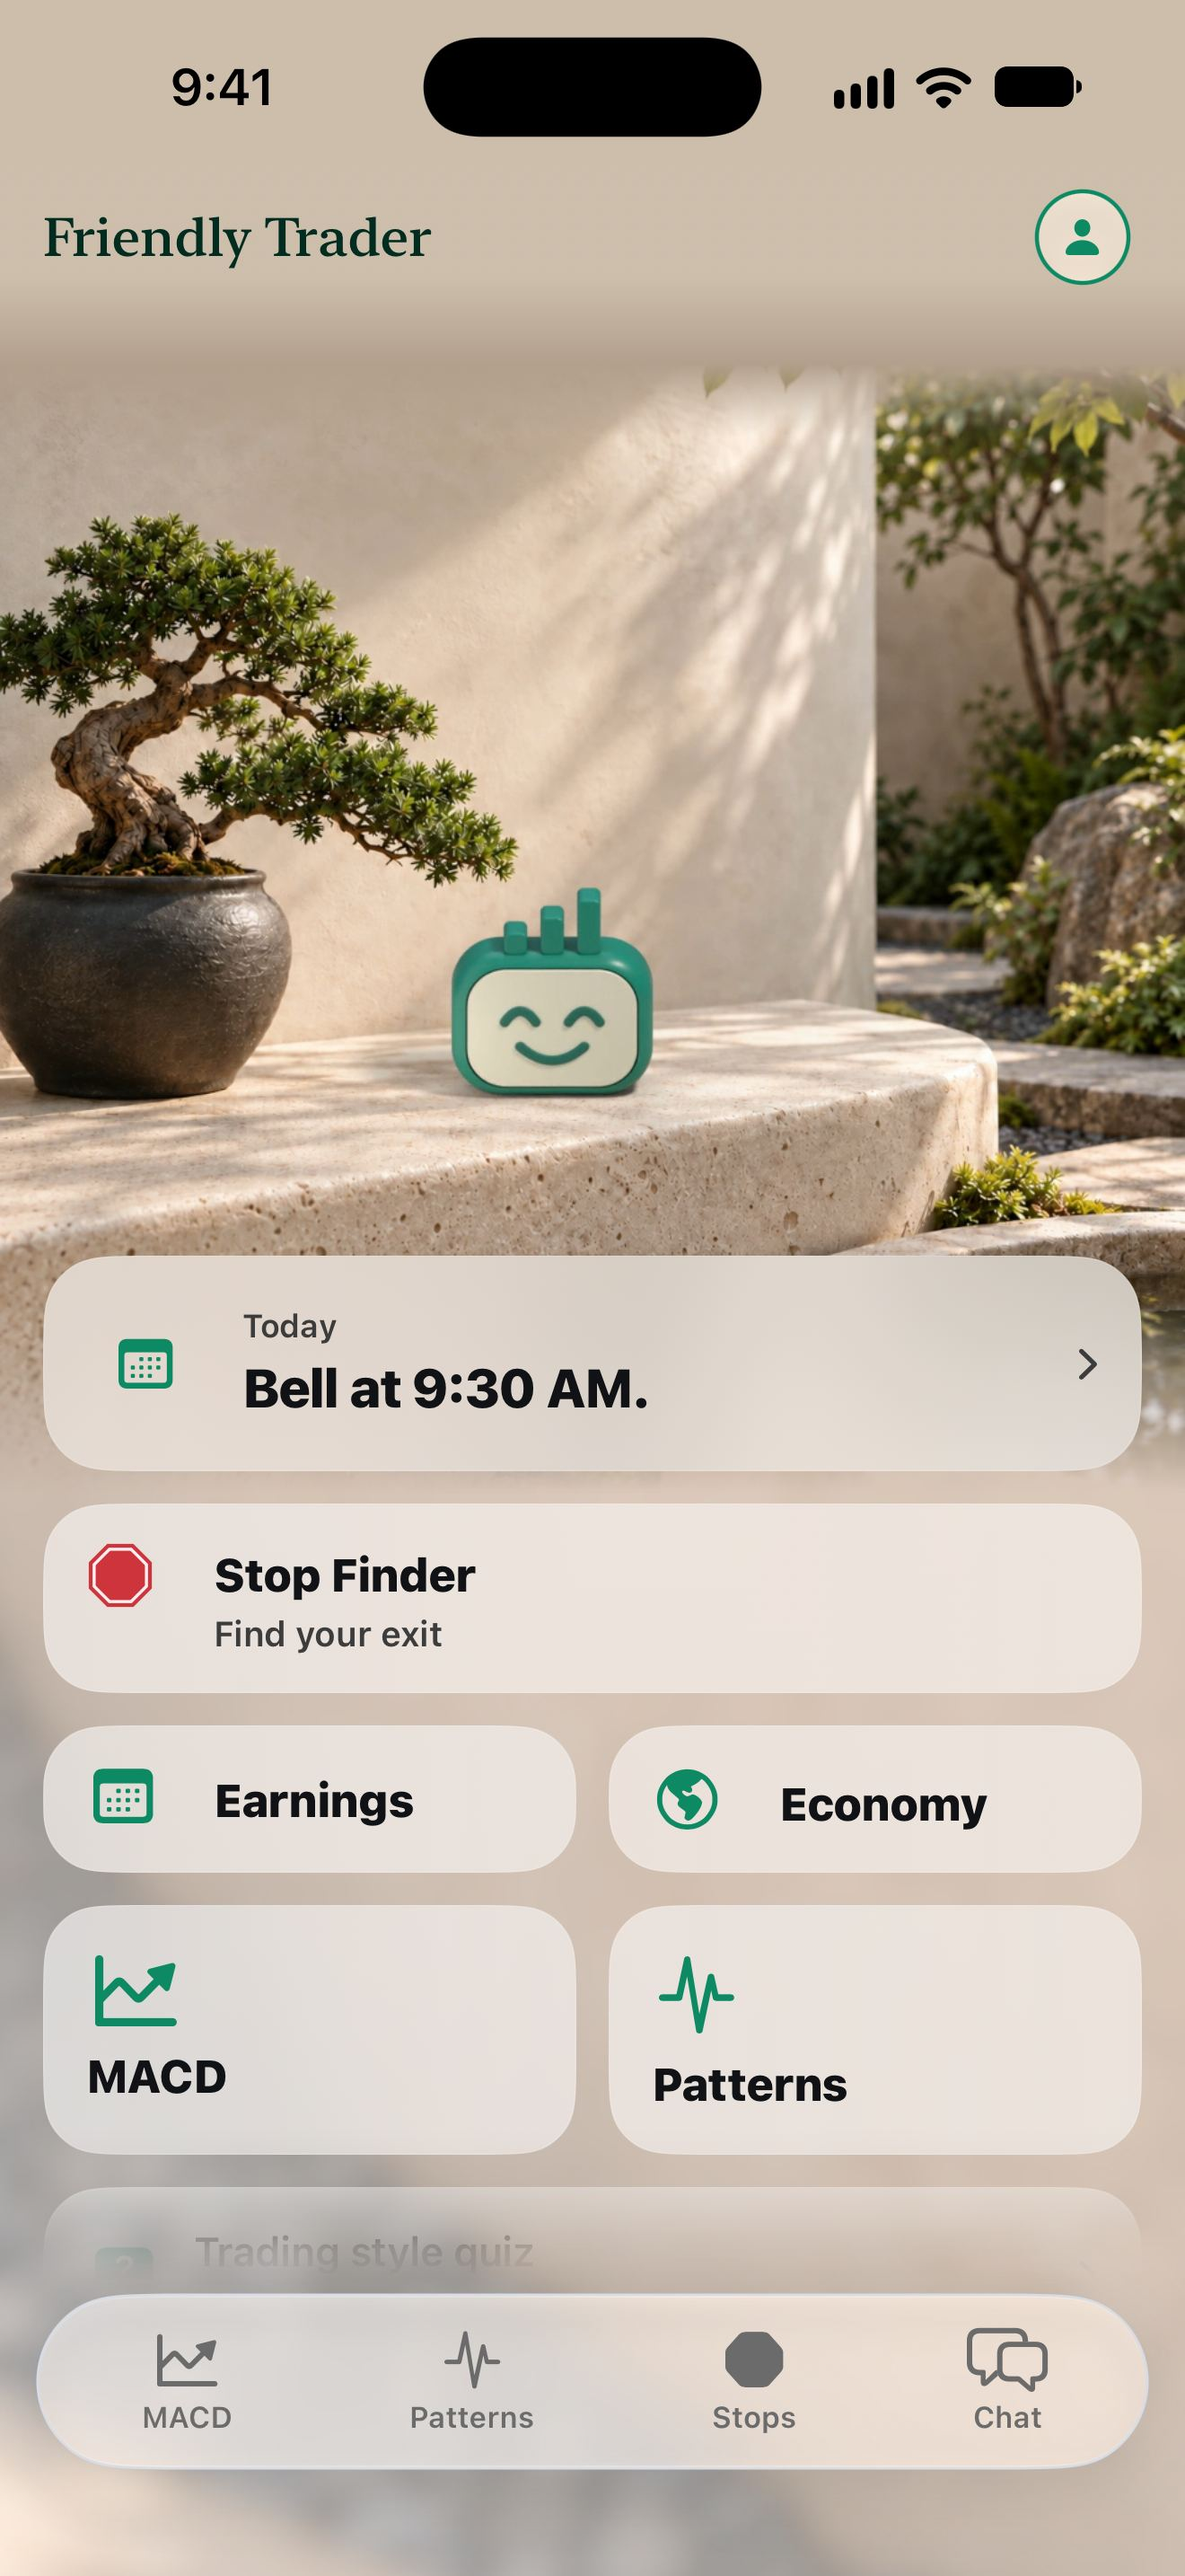
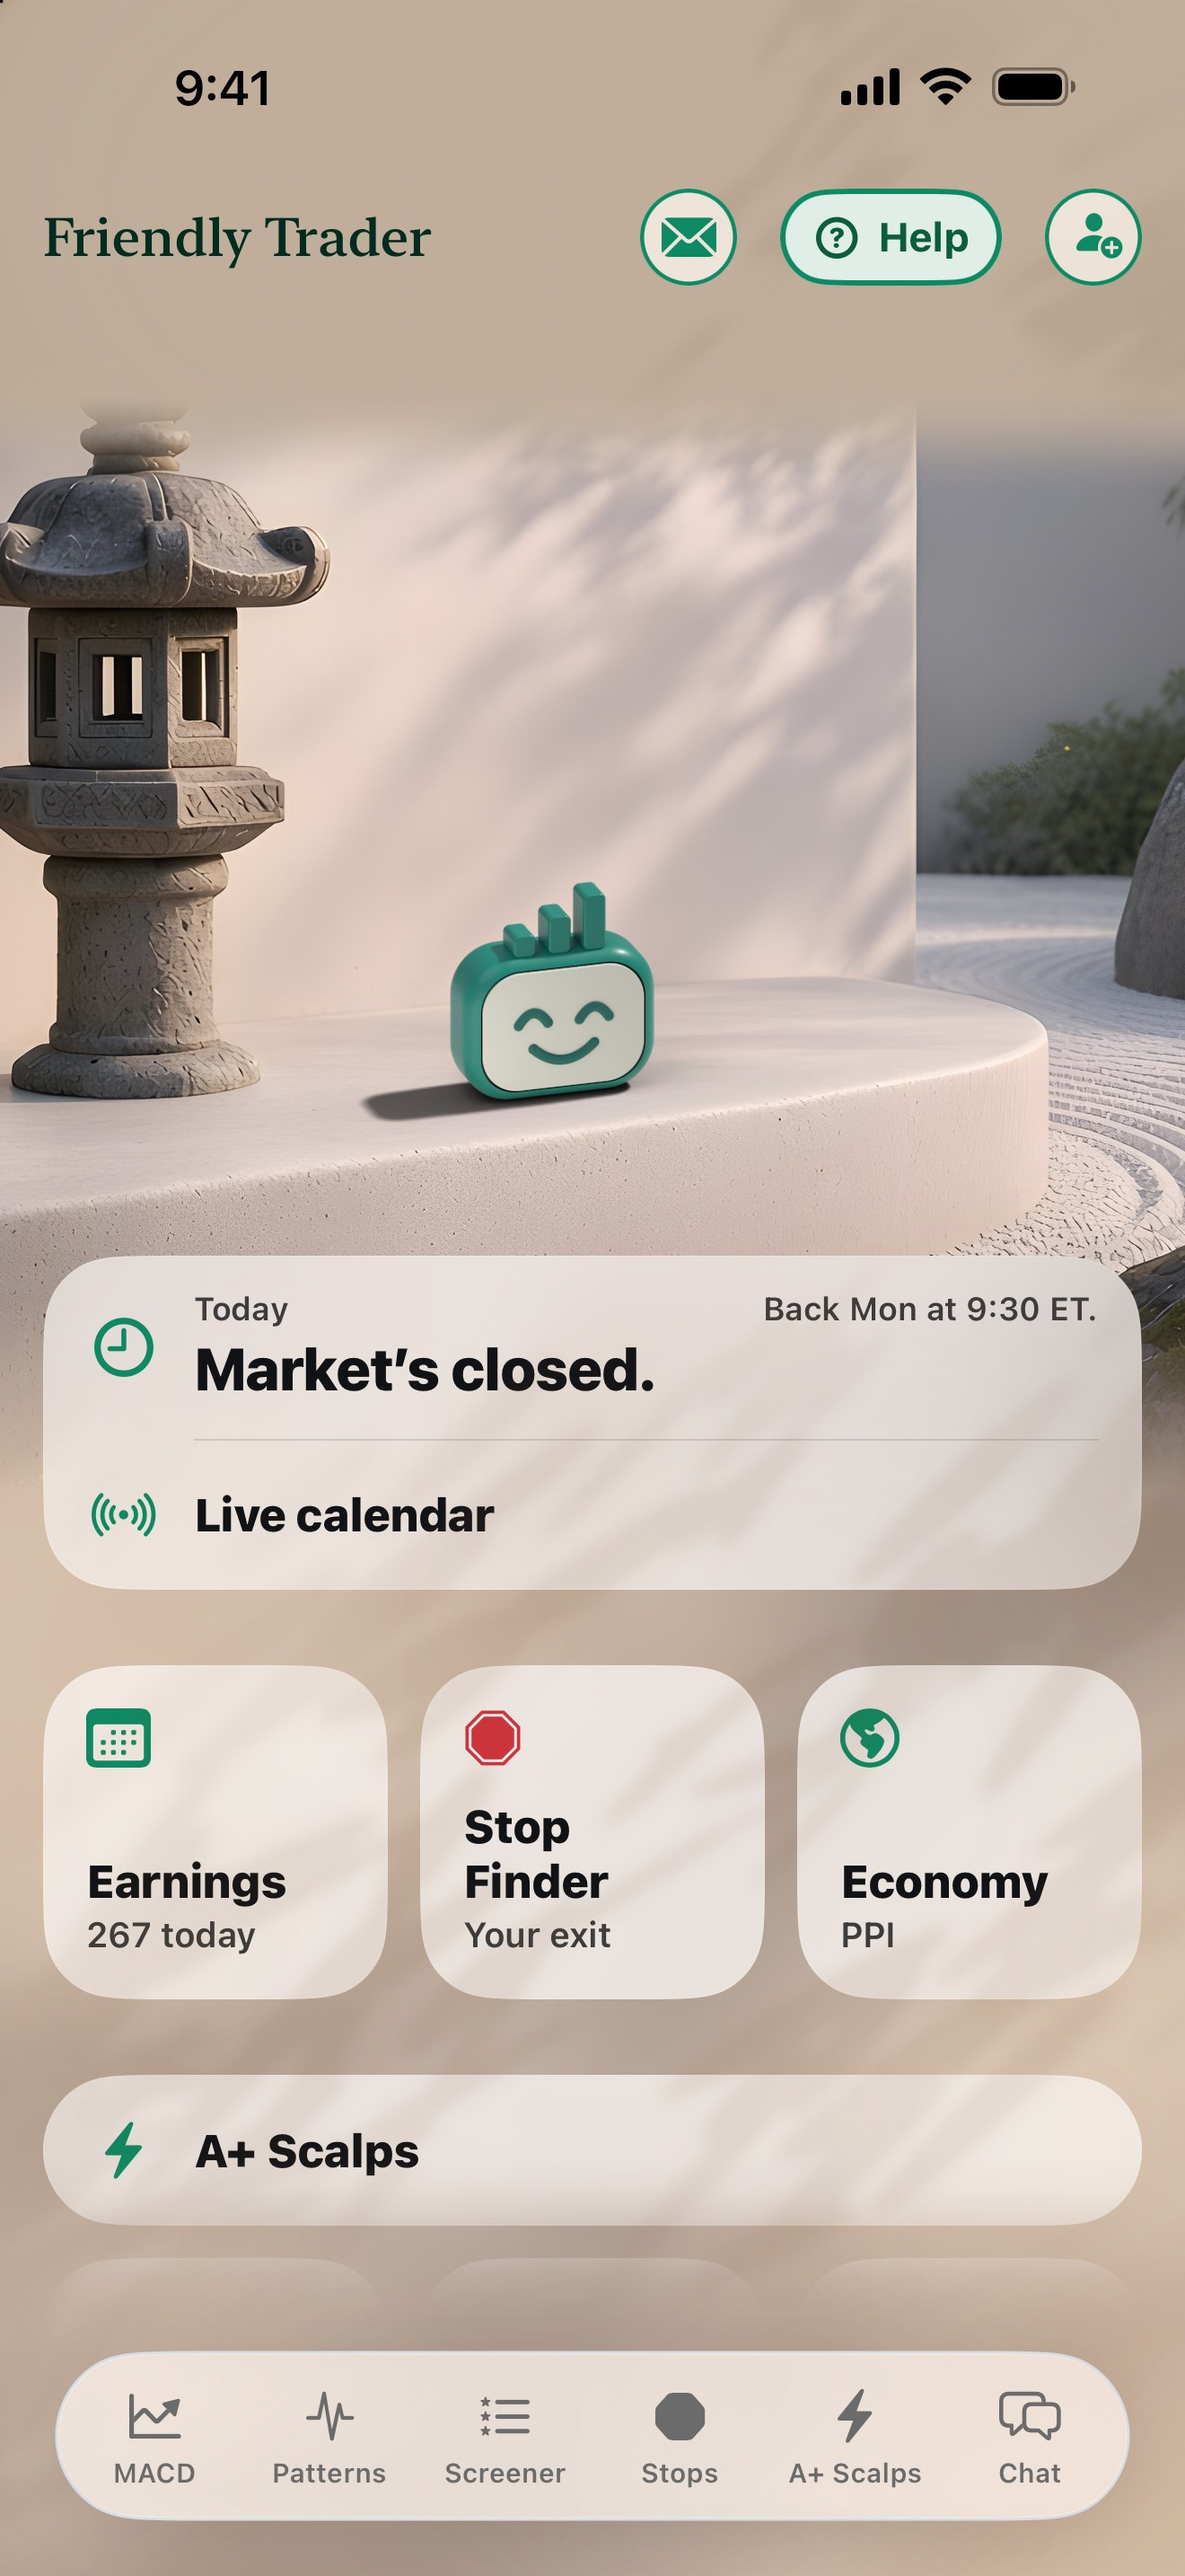
Home page: the four phone pictures retaken from TestFlight 202611132217
Home, Stop Finder on NVDA, the course's journey map and Pip's sheet as the app
is now. The course picture's line is the app's own: Learn options in 28 short
levels.

diff --git a/index.html b/index.html
@@ -85,7 +85,7 @@
         <ul class="g-shots">
           <li><button class="g-shot" data-site="explore"><span class="g-shot-line">Every tool,<br />one tap away.</span><span class="g-shot-phone"><img src="assets/home/home.jpg" alt="The app's Home screen with its tools" width="1320" height="2868" loading="lazy" decoding="async" /></span></button></li>
           <li><button class="g-shot" data-open="stops"><span class="g-shot-line">See your exit<br />before you buy.</span><span class="g-shot-phone"><img src="assets/home/stop.jpg" alt="Stop Finder showing NVDA with its stop and two targets on the chart" width="1000" height="2172" loading="lazy" decoding="async" /></span></button></li>
-          <li><button class="g-shot" data-open="course"><span class="g-shot-line">28 options lessons,<br />with practice trades.</span><span class="g-shot-phone"><img src="assets/home/map.jpg" alt="The options course map, starting on Main Street" width="999" height="2172" loading="lazy" decoding="async" /></span></button></li>
+          <li><button class="g-shot" data-open="course"><span class="g-shot-line">Learn options<br />in 28 short levels.</span><span class="g-shot-phone"><img src="assets/home/map.jpg" alt="The options course map, at level 5 of 28" width="999" height="2172" loading="lazy" decoding="async" /></span></button></li>
           <li><button class="g-shot" data-open="assistant"><span class="g-shot-line">Ask Pip when<br />you're stuck.</span><span class="g-shot-phone"><img src="assets/home/pip.jpg" alt="Pip answering a question about the screen" width="1000" height="2172" loading="lazy" decoding="async" /></span></button></li>
         </ul>
         <footer class="g-foot">

diff --git a/docs/early-access/README.md b/docs/early-access/README.md
@@ -15,6 +15,8 @@ Owner, November 13, 2026: teaser videos run November 15 to 21, the app is on the
 
 **Owner, November 13, later the same day:** "the options course is not free the only 2 parts of this site that I like and want to keep is everything above see how it works ... it needs to be fully updates to where things are at now with no duplicates". So the home page is now the first screen, "Tap any screen to try it." and a three-link footer (Help & FAQ, Terms, Privacy). The film and the plans left the page, and the film's files left the site (its captions said the course needed no account). Nothing on the home page or the FAQ calls the options course free or links to the web course, and tests hold all of this (`tests/current-app.test.mjs`). Prices now live in the FAQ only. The Pixel sends a page view, Try the app and the sign-up, nothing else.
 
+The four phone pictures were retaken on November 13 from TestFlight 202611132217 (source `f4a0db230`); how, and what each shows, is in `~/SWJ/operations/early-access-20261113/captures/CAPTURES.md`. They are unedited apart from one thing: on `pip.jpg` the small line "AI assistant · Private" under the sheet's name is covered in white, as it was on the October picture (owner, October 30: no AI descriptors in marketing). Retake them when Home, Stop Finder, the course map or Pip's sheet changes.
+
 ## The server
 
 The box posts JSON to `https://grbywbmbiewrxqbfsxpf.supabase.co/functions/v1/email-signup/early-access` (repo `swj-chat`, branch `claude/early-access-20261113`, `docs/email-signups/README.md`). It sends the address, the exact words under the box with their version (`web-early-access-v1`), the hidden trap field, the time since the page opened, and `ref` when the link had `?ref=name`. Give each teaser its own link, such as `https://thefriendlytrader.com/?ref=reel-1`, to see which one brought people.
